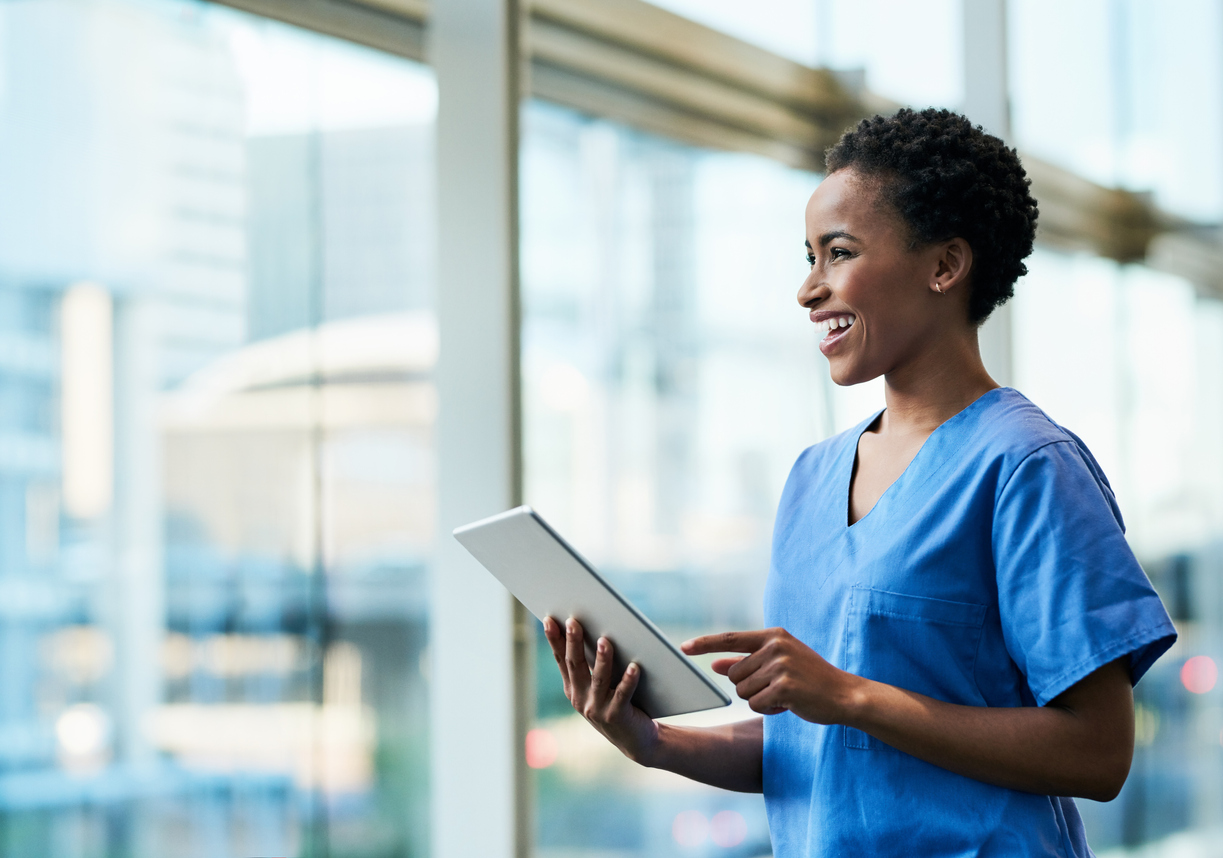
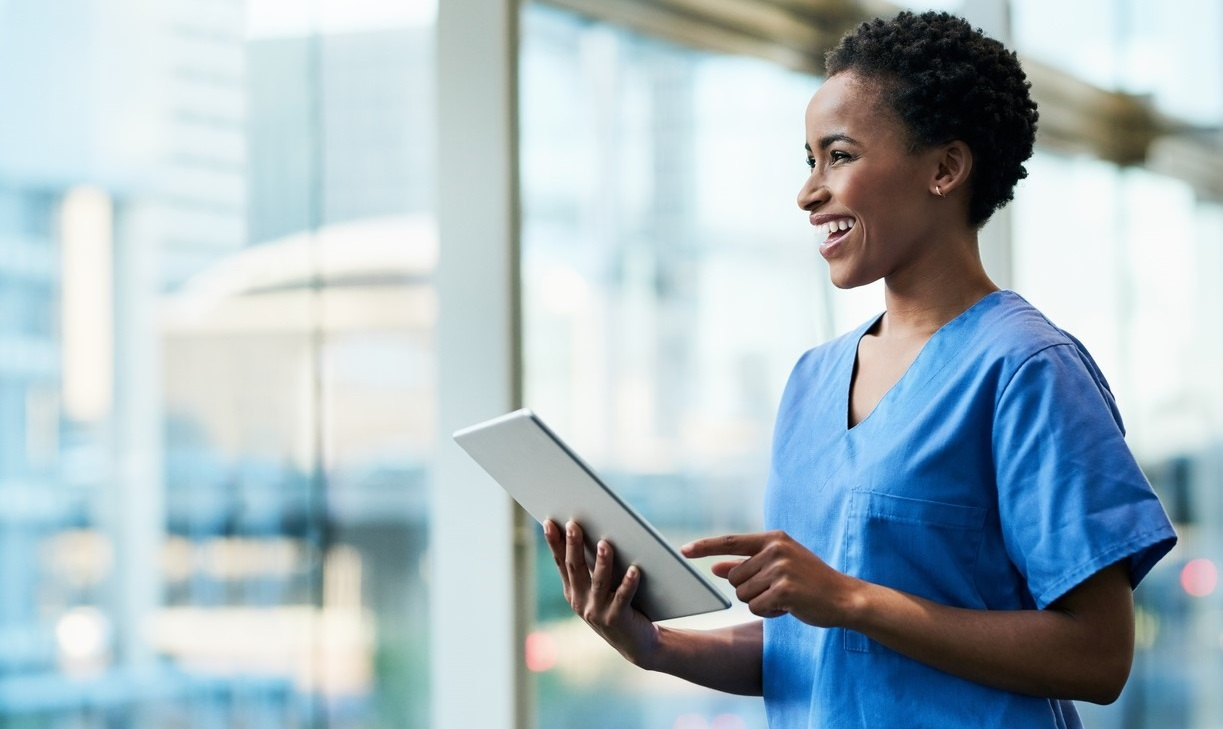
Header Updates

diff --git a/css/index.css b/css/index.css
@@ -20,29 +20,48 @@ a, a:visited {
     text-decoration: none;
 }
 
+.learn-more-button {
+    display: inline-block;
+    background-color: transparent;
+    color: #fff;
+    border: 2px solid #fff;
+    padding: 0.5rem 3rem;
+    margin: 1rem 0 0 0;
+    font-weight: bold;
+    text-transform: uppercase;
+    letter-spacing: 0.031rem;
+}
+
 /* Header */
 
 .header {
-    margin: 0 auto; /* Centers the elment */
-    padding: 250px;
-    text-align: center;
-    color: #fff;
+    position: relative;
+    height: 729px;
+    overflow: hidden;
     background:linear-gradient(0deg, rgba(99, 99, 99, 0.5), rgba(99, 99, 99, 0.5)), url(../resources/header_1.jpg);
-    background-repeat: no-repeat;
-    background-size: 100%;
+    background-size: cover;
 }
 
-.header h1 {
+.header-text {
+    position: absolute; /* Centered text */
+    top: 50%; /* Centered text */
+    left: 50%; /* Centered text */
+    transform: translate(-50%, -50%); /* Centered text */
+    text-align: center;
+    color: #fff;
+}
+
+.header-text h1 {
     font-size: 4.688rem;
     padding: 0 0 1.875rem 0;
 }
 
-.header h2 {
+.header-text h2 {
     font-size: 1.875rem;
     padding: 0 0 1.875rem 0;
 }
 
-.header p {
+.header-text p {
     font-size: 1rem;
     padding: 0 0 0.875rem 0;
 }
@@ -134,32 +153,7 @@ a, a:visited {
     background-color: rgb(0, 130, 126);
 }
 
-.learn-more-button {
-    display: inline-block;
-    background-color: transparent;
-    color: #fff;
-    border: 2px solid #fff;
-    padding: 0.5rem 3rem;
-    margin: 1rem 0 0 0;
-    font-weight: bold;
-    text-transform: uppercase;
-    letter-spacing: 0.031rem;
-}
-
 /* Media Queries */
-
-@media (max-width: 1280px) {
-
-    .header h1 {
-        font-size: 4.688rem;
-        padding: 0 0 1.875rem 0;
-    }
-
-    .header h2 {
-        font-size: 1.875rem;
-        padding: 0 0 1.875rem 0;
-    }
-}
 
 @media (min-width: 640px) {
 

diff --git a/index.html b/index.html
@@ -18,13 +18,15 @@
 <!-- Header -->
 
 <div class="header">
-  <h1>MCN Healthcare</h1>
-  <h2>Document Compliance Software Solutions</h2>
-  <p>For healthcare. By healthcare.</p>
-  <div class="learn-more-button">Schedule Demo</div>
+  <div class="header-text">
+    <h1>MCN Healthcare</h1>
+    <h2>Document Compliance Software Solutions</h2>
+    <p>For healthcare. By healthcare.</p>
+    <div class="learn-more-button">Schedule Demo</div>
+  </div>
 </div>
 
-<!-- Navigation Bar -->
+<!-- Navigation Bar --> <!-- Move above Header later-->
 
   <a href="#"><img src="resources/logo.png"></a>
   <nav class="mainnav">
